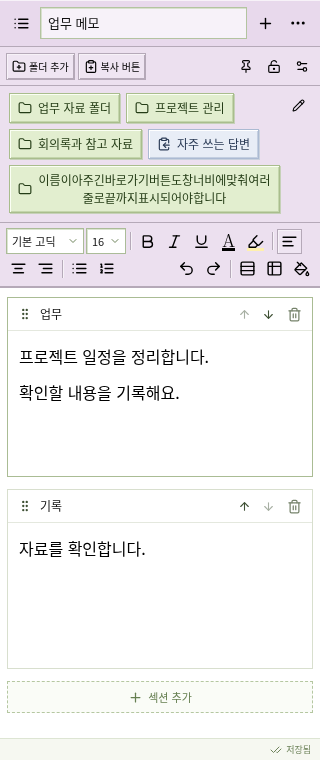
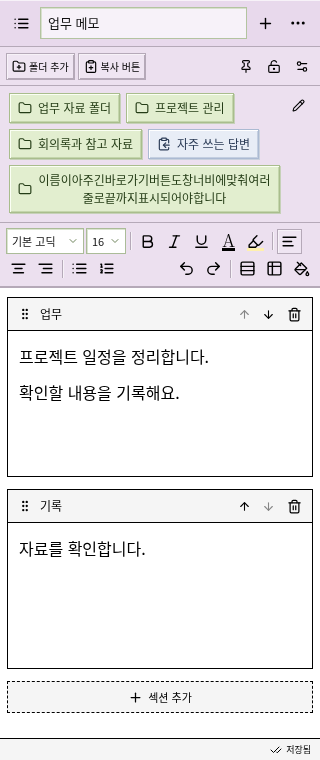
Use black borders and gray surfaces and apply highlights immediately

diff --git a/src/styles.css b/src/styles.css
@@ -384,20 +384,20 @@ svg {
   padding: 12px 10px 18px;
 }
 .section {
-  border: 1px solid #d8dfce;
+  border: 1px solid #000;
   background: transparent;
   margin-bottom: 12px;
 }
 .section-active {
-  border-color: #aabc94;
+  border-color: #000;
 }
 .section-heading {
   display: flex;
   align-items: center;
   gap: 5px;
   padding: 4px 6px;
-  border-bottom: 1px solid #e4e8de;
-  background: #f8faf500;
+  border-bottom: 1px solid #000;
+  background: #f5f5f5;
   min-height: 28px;
 }
 .section-title {
@@ -407,7 +407,7 @@ svg {
   width: 0;
   min-width: 0;
   font-size: 12px;
-  color: #111;
+  color: #000;
   padding: 3px 2px;
   line-height: 18px;
 }
@@ -418,12 +418,19 @@ svg {
   width: 24px;
   min-width: 24px;
   height: 24px;
-  color: #76836b;
+  color: #000;
 }
 .section-delete:hover {
-  color: #914b36;
-  background: #f5e8e2;
-  border-color: #dec0b2;
+  color: #000;
+  background: #e6e6e6;
+  border-color: #000;
+}
+.section-heading .icon-button {
+  color: #000;
+}
+.section-heading .icon-button:hover {
+  background: #e6e6e6;
+  border-color: #000;
 }
 .tiptap {
   font-family: "Malgun Gothic", "Noto Sans CJK KR", sans-serif;
@@ -502,7 +509,7 @@ svg {
   filter: brightness(0.95);
 }
 .ProseMirror-selectednode {
-  outline: 2px solid #8cae6b;
+  outline: 2px solid #000;
 }
 .add-section {
   width: 100%;
@@ -511,15 +518,15 @@ svg {
   justify-content: center;
   gap: 5px;
   font-size: 11px;
-  color: #667f51;
+  color: #000;
   min-height: 31px;
   padding: 7px;
-  border: 1px dashed #b5c7a1;
-  background: #fafcf7;
+  border: 1px dashed #000;
+  background: #f5f5f5;
 }
 .add-section:hover {
-  background: #edf4e4;
-  border-color: #8faa74;
+  background: #e6e6e6;
+  border-color: #000;
 }
 .save-status {
   flex-shrink: 0;
@@ -529,10 +536,10 @@ svg {
   align-items: center;
   justify-content: flex-end;
   gap: 4px;
-  border-top: 1px solid #dde5d3;
-  background: #f6f8f1;
+  border-top: 1px solid #000;
+  background: #f5f5f5;
   font-size: 9px;
-  color: #6f845c;
+  color: #000;
 }
 .error {
   color: #ae5b3e;
@@ -878,17 +885,17 @@ input[type="radio"] {
 }
 ::-webkit-scrollbar-thumb {
   border-radius: 0;
-  border: 1px solid #a7b894;
+  border: 1px solid #888;
   box-shadow:
-    inset 1px 1px #faffed,
-    inset -1px -1px #c8d5b7;
-  background: #dce6cc;
+    inset 1px 1px #fff,
+    inset -1px -1px #bbb;
+  background: #d3d3d3;
 }
 ::-webkit-scrollbar-track {
-  background: #f2f5ed;
+  background: #f4f4f4;
 }
 ::-webkit-scrollbar-corner {
-  background: #f2f5ed;
+  background: #f4f4f4;
 }
 @media (max-width: 380px) {
   .quick-tools {
@@ -1148,7 +1155,7 @@ input[type="radio"] {
 .tiptap th,
 .tiptap td {
   min-width: 45px;
-  border: 1px solid #8d9b82;
+  border: 1px solid #000;
   vertical-align: top;
   padding: 6px 7px;
   position: relative;
@@ -1156,7 +1163,7 @@ input[type="radio"] {
 }
 .tiptap th {
   font-weight: 600;
-  background: #eef2e7;
+  background: #f2f2f2;
 }
 .tiptap td > p:last-child,
 .tiptap th > p:last-child {
@@ -1166,7 +1173,7 @@ input[type="radio"] {
   content: "";
   position: absolute;
   inset: 0;
-  background: #95b27d33;
+  background: #00000014;
   pointer-events: none;
 }
 .tiptap .column-resize-handle {
@@ -1175,7 +1182,7 @@ input[type="radio"] {
   top: 0;
   bottom: -2px;
   width: 4px;
-  background: #849f6d;
+  background: #888;
   pointer-events: none;
 }
 .resize-cursor {

diff --git a/tests/memo.spec.ts b/tests/memo.spec.ts
@@ -72,7 +72,7 @@ async function color(page: Page, name: string, value: string) {
       input.dispatchEvent(new Event("input", { bubbles: true }));
       input.dispatchEvent(new Event("change", { bubbles: true }));
     }, value);
-  if (palette)
+  if (name === "글씨색")
     await page.getByRole("button", { name: "완료", exact: true }).click();
 }
 async function mockClipboard(page: Page) {
@@ -886,7 +886,7 @@ test("text and highlight colors have separate recent lists and favorite colors",
   await page
     .getByRole("button", { name: "현재 강조색 즐겨찾기", exact: true })
     .click();
-  await page.getByRole("button", { name: "완료", exact: true }).click();
+  await page.getByRole("button", { name: "닫기", exact: true }).click();
   await page.reload();
   await page.getByRole("button", { name: "글씨색 선택", exact: true }).click();
   await expect(
@@ -1000,4 +1000,51 @@ test("application controls use the default Gothic font and keep compact layout",
   expect(
     await page.evaluate(() => document.documentElement.scrollWidth),
   ).toBeLessThanOrEqual(320);
+});
+
+test("highlight colors apply and close immediately without a Done button", async ({
+  page,
+}) => {
+  await open(page);
+  await body(page).fill("즉시 형광색 적용");
+  await body(page).click();
+  await page.keyboard.press("ControlOrMeta+a");
+  await page.getByRole("button", { name: "강조색 선택", exact: true }).click();
+  await expect(
+    page
+      .getByRole("dialog", { name: "형광색" })
+      .getByRole("button", { name: "완료", exact: true }),
+  ).toHaveCount(0);
+  await page
+    .getByRole("button", { name: "강조색 기본 #ffff00", exact: true })
+    .click();
+  await expect(page.getByRole("dialog", { name: "형광색" })).toHaveCount(0);
+  await expect(body(page).locator("span").first()).toHaveCSS(
+    "background-color",
+    "rgb(255, 255, 0)",
+  );
+  await page.getByRole("button", { name: "강조색 선택", exact: true }).click();
+  await page
+    .getByRole("button", { name: "현재 강조색 즐겨찾기", exact: true })
+    .click();
+  await page
+    .getByRole("button", { name: "강조색 최근 #ffff00", exact: true })
+    .click();
+  await expect(page.getByRole("dialog", { name: "형광색" })).toHaveCount(0);
+  await color(page, "강조색", "#cceeff");
+  await expect(page.getByRole("dialog", { name: "형광색" })).toHaveCount(0);
+  await expect(body(page).locator("span").first()).toHaveCSS(
+    "background-color",
+    "rgb(204, 238, 255)",
+  );
+  await page.getByRole("button", { name: "강조색 선택", exact: true }).click();
+  await page
+    .getByRole("button", { name: "강조색 즐겨찾기 #ffff00", exact: true })
+    .click();
+  await expect(page.getByRole("dialog", { name: "형광색" })).toHaveCount(0);
+  await page.reload();
+  await expect(body(page).locator("span").first()).toHaveCSS(
+    "background-color",
+    "rgb(255, 255, 0)",
+  );
 });

diff --git a/src/components/ColorPicker.tsx b/src/components/ColorPicker.tsx
@@ -1,4 +1,4 @@
-import { useState } from "react";
+import { useEffect, useRef, useState } from "react";
 import { Highlighter, Star } from "lucide-react";
 import { Modal } from "./Modal";
 import {
@@ -27,10 +27,24 @@ export function ColorPicker({
     colorHex(value, kind === "text" ? "#000000" : "#fff0ad"),
   );
   const name = kind === "text" ? "글씨색" : "강조색";
-  const select = (color: string) => {
+  const colorInput = useRef<HTMLInputElement>(null);
+  const select = (color: string, committed = true) => {
     setPicked(color);
     onSelect(color);
+    if (kind === "highlight" && committed) setOpen(false);
   };
+  const selectRef = useRef(select);
+  selectRef.current = select;
+  useEffect(() => {
+    if (!open) return;
+    const input = colorInput.current;
+    if (!input) return;
+    // Native color pickers emit input previews, then a change on commitment.
+    // Keep previews live without closing the OS picker during a drag.
+    const commit = () => selectRef.current(input.value, true);
+    input.addEventListener("change", commit);
+    return () => input.removeEventListener("change", commit);
+  }, [open]);
   const base =
     kind === "text"
       ? ["#000000", "#d93025", "#174ea6", "#188038", "#8430ce", "#ffffff"]
@@ -69,10 +83,11 @@ export function ColorPicker({
             <label>
               <span>{name}</span>
               <input
+                ref={colorInput}
                 type="color"
                 aria-label={name}
                 value={picked}
-                onChange={(event) => select(event.target.value)}
+                onChange={(event) => select(event.target.value, false)}
               />
             </label>
             <span>{picked.toUpperCase()}</span>
@@ -156,11 +171,17 @@ export function ColorPicker({
               <span className="field-hint">선택한 색이 여기에 표시됩니다.</span>
             )}
           </div>
-          <div className="modal-actions">
-            <button className="primary-button" onClick={() => setOpen(false)}>
-              완료
-            </button>
-          </div>
+          {kind === "text" ? (
+            <div className="modal-actions">
+              <button className="primary-button" onClick={() => setOpen(false)}>
+                완료
+              </button>
+            </div>
+          ) : (
+            <p className="field-hint">
+              색을 선택하면 바로 적용되고 창이 닫힙니다.
+            </p>
+          )}
         </Modal>
       )}
     </>

diff --git a/README.md b/README.md
@@ -1,12 +1,12 @@
-# MEMO 1.3
+# MEMO 1.3.1
 
-귀여운 도트 메모장 아이콘과 읽기 쉬운 기본 고딕 UI를 사용하는 Windows 메모장입니다. 기본은 검정 글씨·흰 배경이고, 기기에 자동 저장됩니다.
+귀여운 도트 메모장 아이콘과 읽기 쉬운 기본 고딕 UI를 사용하는 Windows 메모장입니다. 기본은 검정 글씨·검정 테두리·흰 본문이며, 섹션 제목 영역·섹션 추가·저장 표시 등 옅은 배경은 회색입니다. 기기에 자동 저장됩니다. 직접 지정한 메모·버튼·상단 색상은 유지됩니다.
 
 ![메모 화면](docs/preview.png)
 
 ![좁은 창에서 줄바꿈되는 바로가기와 상단 색상](docs/wrapped-preview.png)
 
-**[Windows 1.3.0 ZIP 다운로드](https://github.com/leejiwon921215-star/MEMO/raw/refs/heads/downloads/MEMO-Windows-1.3.0.zip)**
+**[Windows 1.3.1 ZIP 다운로드](https://github.com/leejiwon921215-star/MEMO/raw/refs/heads/downloads/MEMO-Windows-1.3.1.zip)**
 
 ZIP을 모두 압축 해제하고, 기존 앱을 완전히 종료한 뒤 안의 새 실행 파일을 여세요. `%APPDATA%\MEMO`의 기존 메모와 폴더 연결, 창 고정 설정은 유지됩니다. 중요한 기록은 업데이트 전에 상단 메뉴 → ‘백업 저장’으로 보관할 수 있습니다. 이 빌드는 코드 서명이 없는 Windows 10/11 x64 개발 빌드입니다.
 
@@ -15,7 +15,7 @@ ZIP을 모두 압축 해제하고, 기존 앱을 완전히 종료한 뒤 안의 
 - **목록에서 삭제·정렬:** 상단 목록 아이콘을 누른 뒤 각 메모 오른쪽 휴지통 버튼으로 삭제합니다. 확인창에서 취소할 수 있습니다. 왼쪽 이동 손잡이를 끌거나 위·아래 버튼으로 메모 순서를 바꾸세요. 검색·즐겨찾기 화면에서도 표시된 항목을 기준으로 이동할 수 있습니다.
 - **섹션 정렬:** 섹션 왼쪽 손잡이를 잡아 다른 섹션 위아래로 끌거나 위·아래 화살표를 누릅니다. 내용과 순서는 자동 저장됩니다.
 - **줄 간격·여백:** 본문에 커서를 놓거나 문단을 선택한 뒤 서식 도구의 ‘줄 간격과 문단 여백’을 누르세요. 줄 간격 배율과 문단 위·아래 여백(px)을 지정합니다.
-- **최근 색·색상 즐겨찾기:** A(글씨색) 또는 형광펜 아이콘을 누르면 최근 사용 색이 나옵니다. 현재 색이나 최근 색 옆 별표를 눌러 즐겨찾기에 보관하세요. 글씨색과 형광색은 따로 저장하며 종류별 즐겨찾기 32개, 최근 색 12개를 지원합니다.
+- **최근 색·색상 즐겨찾기:** A(글씨색) 또는 형광펜 아이콘을 누르면 최근 사용 색이 나옵니다. 현재 색이나 최근 색 옆 별표를 눌러 즐겨찾기에 보관하세요. 형광색은 기본색·최근 색·즐겨찾기를 선택하면 즉시 적용되고 색상창이 닫힙니다. 직접 색을 고를 때도 완료 버튼을 따로 누르지 않습니다. 글씨색과 형광색은 따로 저장하며 종류별 즐겨찾기 32개, 최근 색 12개를 지원합니다.
 - **표:** 서식 도구의 표 아이콘 → 행·열 수 선택 → ‘표 넣기’. 표 안을 클릭하면 행 추가·열 추가·행 삭제·열 삭제·표 삭제 버튼이 나옵니다. 삭제 시 확인창이 나타나고 열 너비도 드래그로 조절할 수 있습니다.
 - **버튼 색상:** 바로가기 관리에서 버튼을 수정할 때 ‘버튼 배경색’을 고르세요. 본문에 넣은 폴더·복사 버튼은 오른쪽 클릭으로 수정할 수 있습니다. ‘버튼 기본색’으로 되돌릴 수 있습니다.
 - **상단 색상:** 위쪽 `⋯` 메뉴 → ‘상단 색상 설정’에서 원하는 색을 고르세요. 기본 색상 선택과 사용자 지정 색을 지원하며 다시 실행해도 유지됩니다. 메모 본문의 배경색은 별도로 유지됩니다.
@@ -74,9 +74,9 @@ TLS와 패키지 무결성 검증을 유지합니다. 개발 서버는 환경을
 npm run package:portable
 ```
 
-`release/MEMO-Windows-1.3.0.exe`, 이를 담은 `release/MEMO-Windows-1.3.0.zip`, 각각의 SHA-256 파일을 생성합니다. SVG 원본으로 PNG·ICO 아이콘을 생성합니다. SDK 다운로드의 TLS와 고정 SHA-256을 검증한 뒤 공식 7zSD.sfx 모듈을 결합하고 전체 압축 무결성을 검사합니다. Windows 앱과 압축 해제 실행 파일 모두에 새 아이콘을 넣고, 아이콘 이외의 리소스(ASAR 무결성 포함)와 코드 섹션이 보존되는지 검사합니다. 새 빌드는 코드 서명이 없는 상태로 생성합니다. Linux에서도 Wine 없이 만들 수 있습니다.
+`release/MEMO-Windows-1.3.1.exe`, 이를 담은 `release/MEMO-Windows-1.3.1.zip`, 각각의 SHA-256 파일을 생성합니다. SVG 원본으로 PNG·ICO 아이콘을 생성합니다. SDK 다운로드의 TLS와 고정 SHA-256을 검증한 뒤 공식 7zSD.sfx 모듈을 결합하고 전체 압축 무결성을 검사합니다. Windows 앱과 압축 해제 실행 파일 모두에 새 아이콘을 넣고, 아이콘 이외의 리소스(ASAR 무결성 포함)와 코드 섹션이 보존되는지 검사합니다. 새 빌드는 코드 서명이 없는 상태로 생성합니다. Linux에서도 Wine 없이 만들 수 있습니다.
 
-ZIP 빌드는 `npm run package:win -- --x64`로 `release/MEMO-1.3.0-win-x64.zip`을 생성합니다. ZIP은 전부 압축 해제한 뒤 `MEMO.exe`를 실행합니다. NSIS 설치 프로그램은 `npm run package:win:installer -- --x64`로 만들며 Windows 또는 Wine이 필요합니다. 빌드 결과는 소스 브랜치에 포함하지 않습니다. `downloads` 브랜치에는 다운로드용 실행본을 별도로 게시합니다.
+ZIP 빌드는 `npm run package:win -- --x64`로 `release/MEMO-1.3.1-win-x64.zip`을 생성합니다. ZIP은 전부 압축 해제한 뒤 `MEMO.exe`를 실행합니다. NSIS 설치 프로그램은 `npm run package:win:installer -- --x64`로 만들며 Windows 또는 Wine이 필요합니다. 빌드 결과는 소스 브랜치에 포함하지 않습니다. `downloads` 브랜치에는 다운로드용 실행본을 별도로 게시합니다.
 
 ## 글꼴
 
